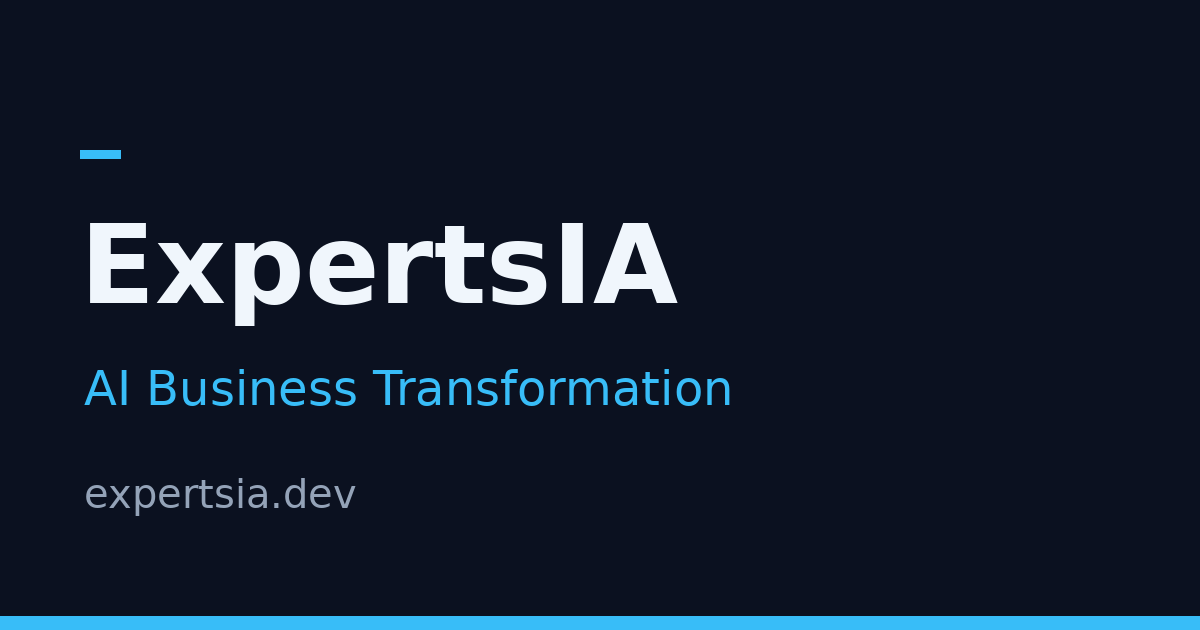
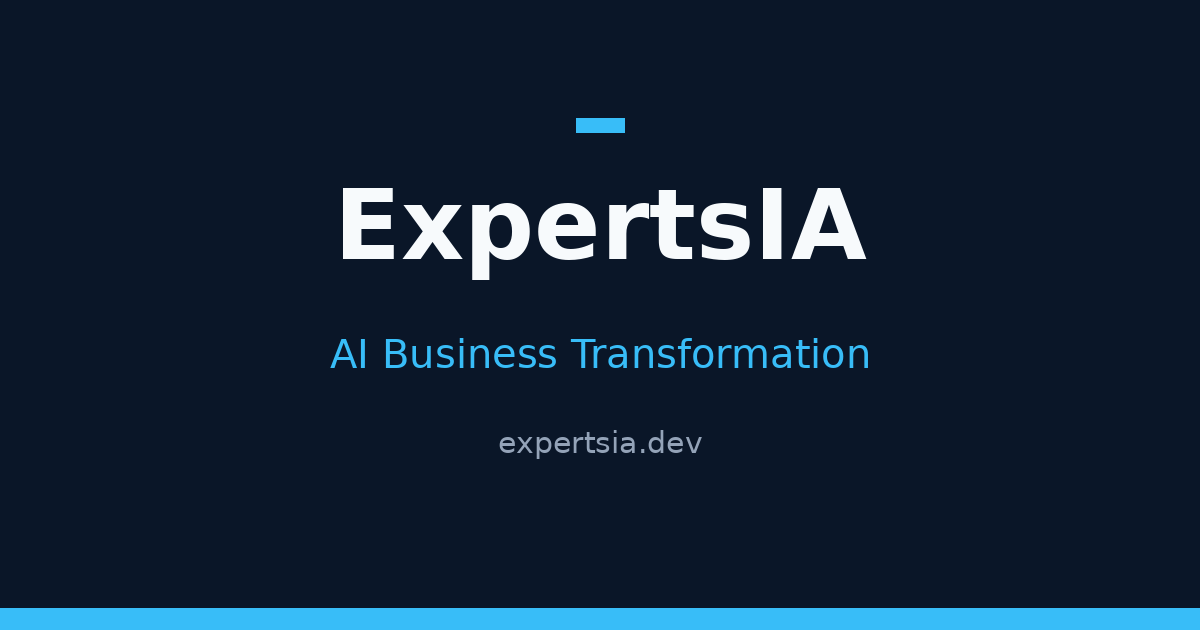
og: center card content in square-safe zone (LinkedIn mobile crop was cutting the E)

diff --git a/scripts/gen_og_card.py b/scripts/gen_og_card.py
@@ -1,0 +1,59 @@
+#!/usr/bin/env python3
+"""Régénère og-card.png ExpertsIA — texte centré dans la zone de sécurité carrée.
+LinkedIn/WhatsApp recadrent en carré centré (630x630 sur du 1200x630 = x 285-915).
+Ancien design: texte aligné gauche x=80 → le "E" était rogné par le crop.
+Design conservé: fond #0A1628, accent #38BDF8, barre bleue en bas."""
+
+from PIL import Image, ImageDraw, ImageFont
+
+W, H = 1200, 630
+NAVY = (10, 22, 40)
+CYAN = (56, 189, 248)
+WHITE = (247, 250, 252)
+GREY = (148, 163, 184)
+
+BOLD = "/usr/share/fonts/truetype/dejavu/DejaVuSans-Bold.ttf"
+REG = "/usr/share/fonts/truetype/dejavu/DejaVuSans.ttf"
+
+img = Image.new("RGB", (W, H), NAVY)
+d = ImageDraw.Draw(img)
+
+def text_w(draw, txt, font):
+    b = draw.textbbox((0, 0), txt, font=font)
+    return b[2] - b[0]
+
+f_dash = ImageFont.truetype(BOLD, 22)
+f_title = ImageFont.truetype(BOLD, 98)
+f_sub = ImageFont.truetype(REG, 40)
+f_url = ImageFont.truetype(REG, 30)
+
+# Zone de sécurité carrée: x 285-915 → centre = 600
+CX = W // 2
+
+# Petit tiret accent au-dessus du titre (centré)
+dash_w = 48
+d.rectangle([CX - dash_w // 2, 118, CX + dash_w // 2, 132], fill=CYAN)
+
+# Titre "ExpertsIA" centré
+title = "ExpertsIA"
+tw = text_w(d, title, f_title)
+d.text((CX - tw // 2, 168), title, font=f_title, fill=WHITE)
+
+# Sous-titre centré
+sub = "AI Business Transformation"
+sw = text_w(d, sub, f_sub)
+d.text((CX - sw // 2, 330), sub, font=f_sub, fill=CYAN)
+
+# URL centrée
+url = "expertsia.dev"
+uw = text_w(d, url, f_url)
+d.text((CX - uw // 2, 425), url, font=f_url, fill=GREY)
+
+# Barre bleue en bas (pleine largeur, 22px)
+d.rectangle([0, H - 22, W, H], fill=CYAN)
+
+img.save("/home/daliryc/Dev_projects/expertsia/public/og-card.png")
+print("og-card.png régénérée — texte centré dans la zone de sécurité (x 285-915)")
+# vérif: largeur du titre vs zone
+tw_check = text_w(ImageDraw.Draw(Image.new("RGB", (10, 10))), title, f_title)
+print(f"titre {tw_check}px, zone carrée 630px → marges {630 - tw_check}px dans le crop")
